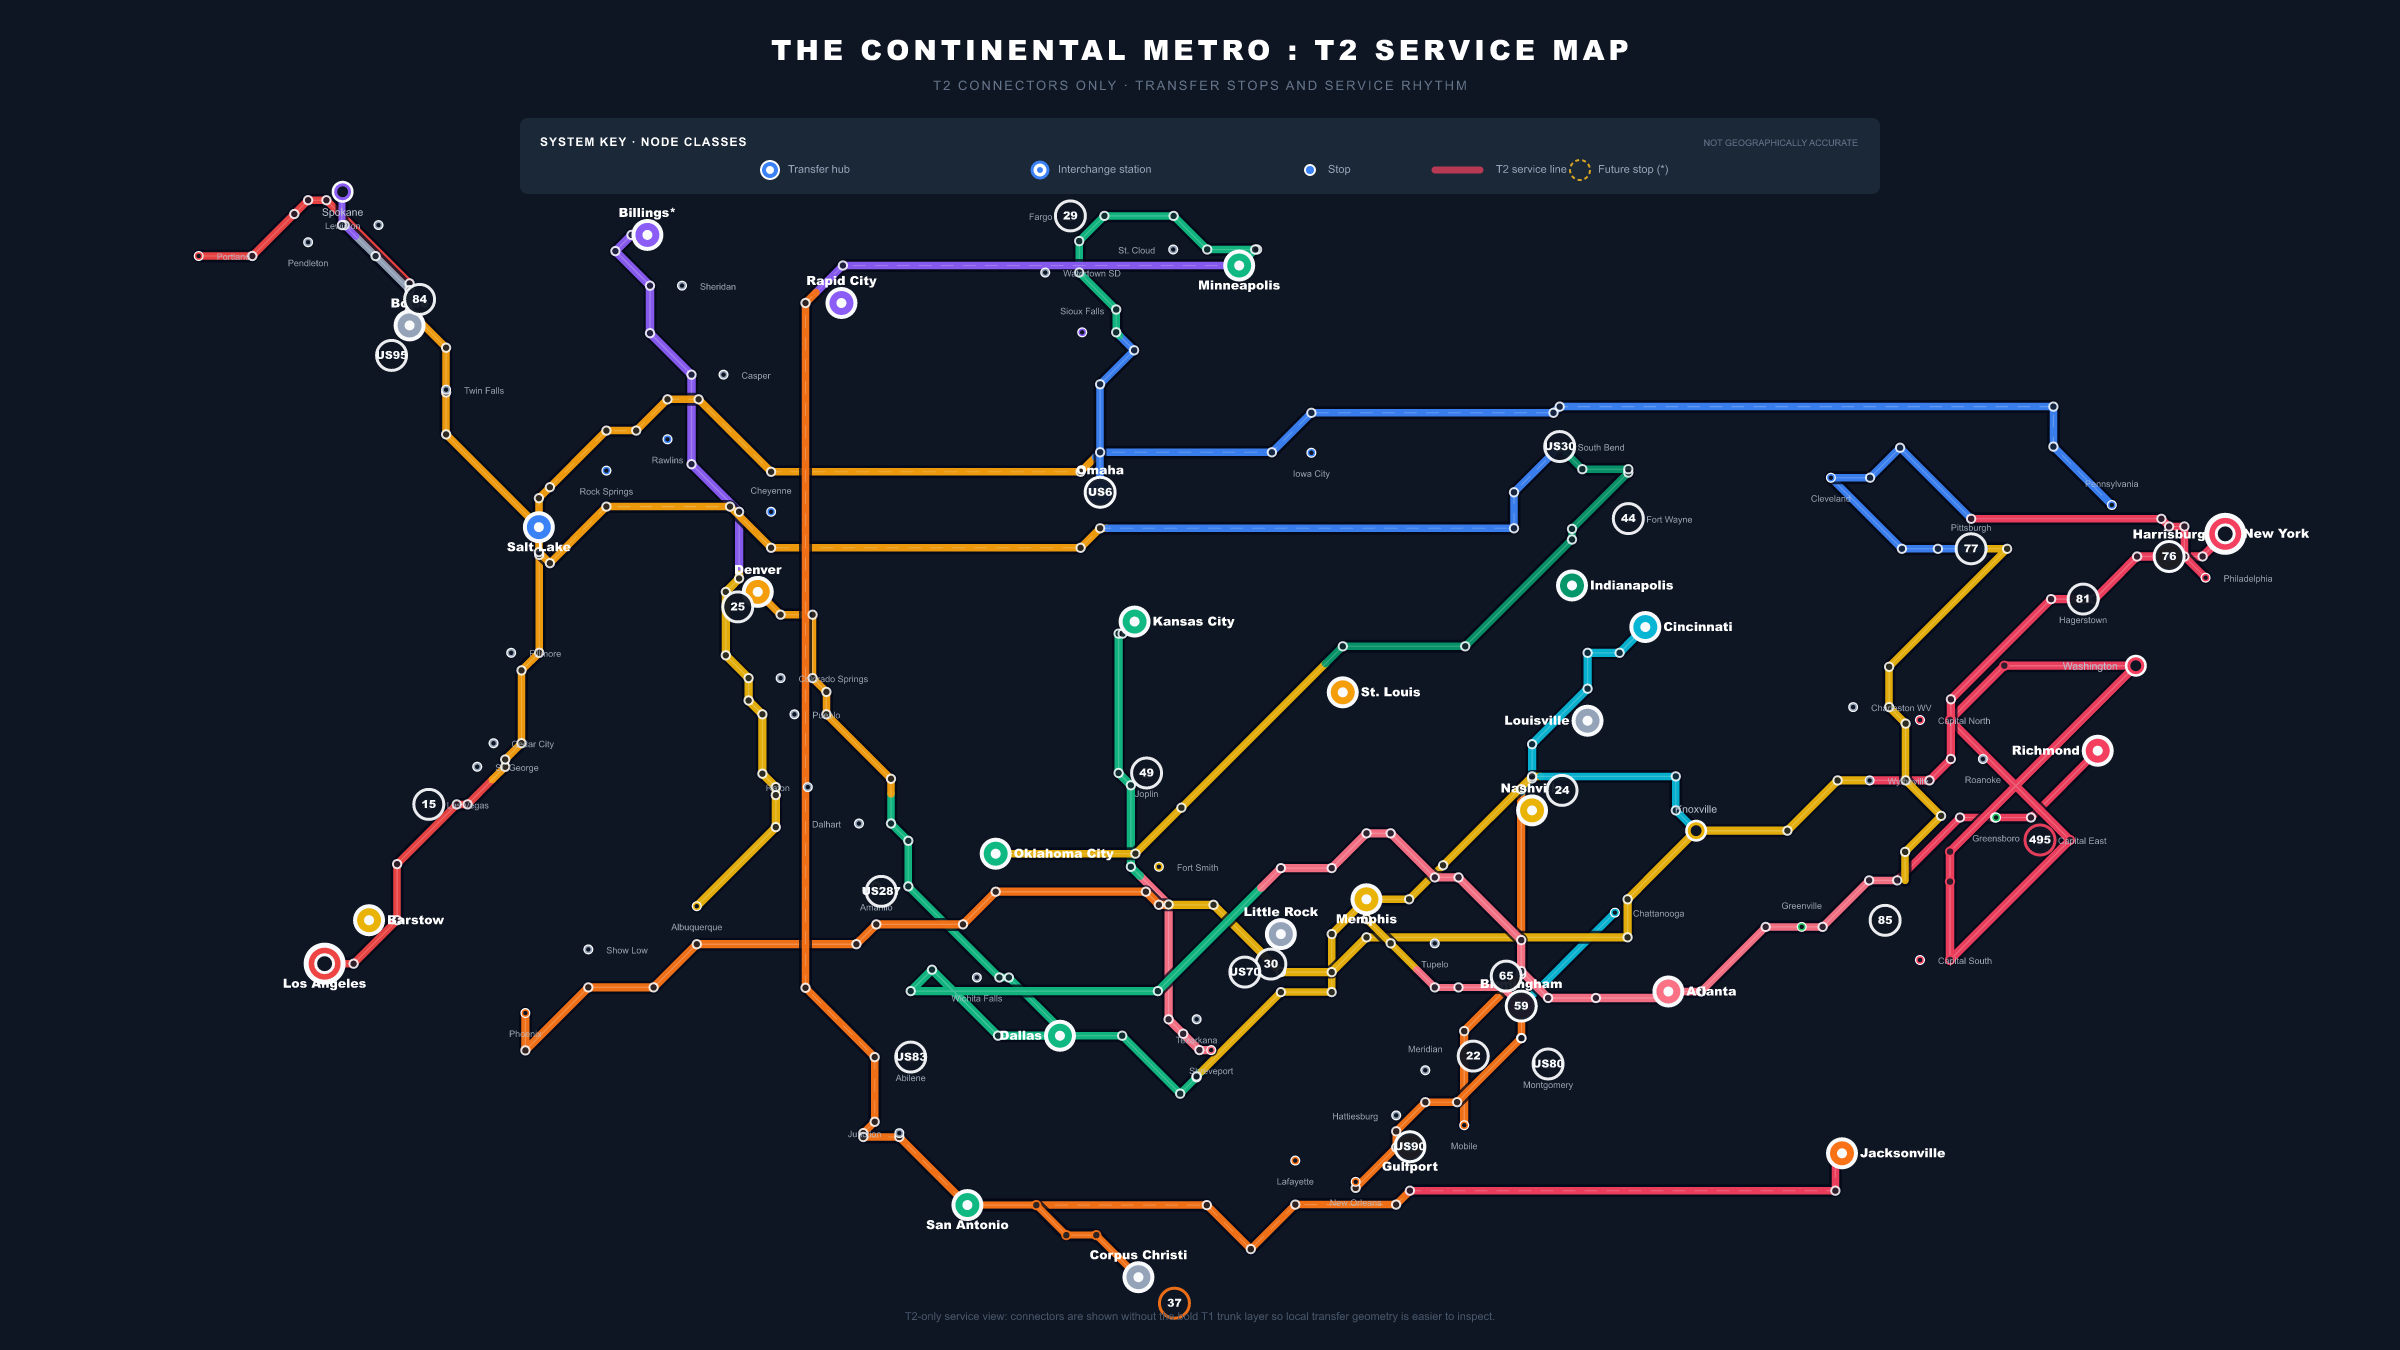
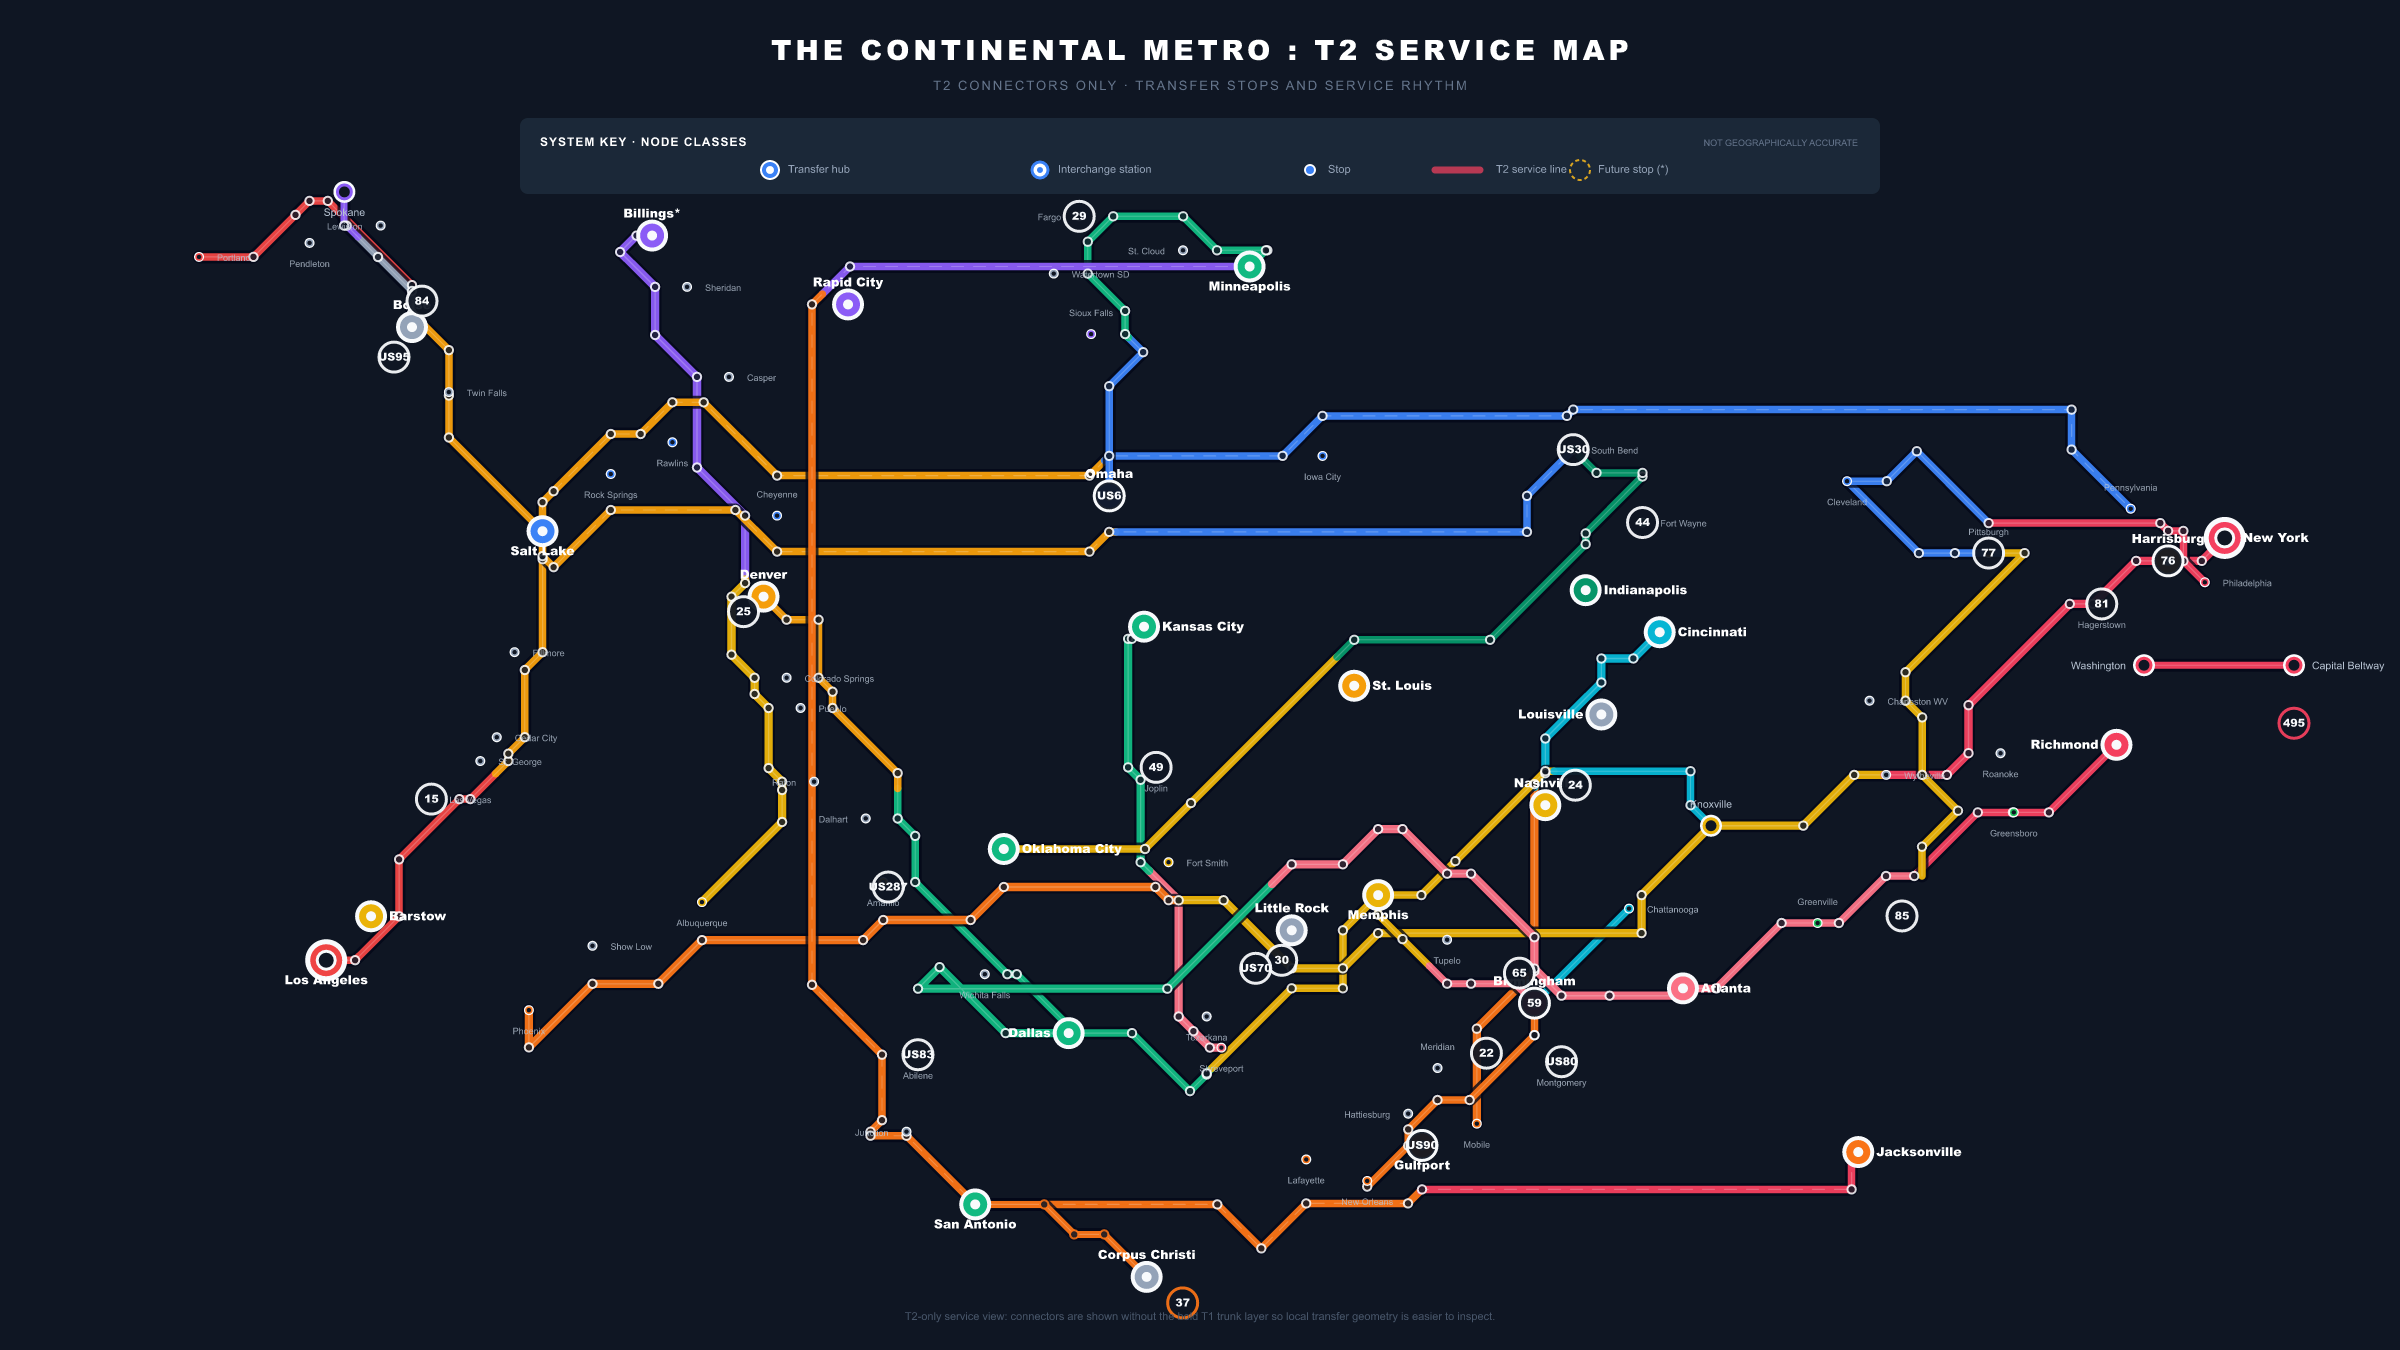
Simplify DC beltway Beck service

diff --git a/crates/route-map/src/beck.rs b/crates/route-map/src/beck.rs
@@ -1373,27 +1373,13 @@ fn beck_stops() -> Vec<BeckStop> {
             &["I-25"],
             LabelDir::Right,
         ),
-        minor_stop(
-            "CAPITAL_BELTWAY_N",
-            "Capital North",
-            1920.0,
-            780.0,
-            &["I-95", "I-495"],
-            LabelDir::Right,
-        ),
-        minor_stop(
+        stop(
             "CAPITAL_BELTWAY_E",
-            "Capital East",
+            "Capital Beltway",
             1980.0,
             840.0,
-            &["I-95", "I-495"],
-            LabelDir::Right,
-        ),
-        minor_stop(
-            "CAPITAL_BELTWAY_S",
-            "Capital South",
-            1890.0,
-            900.0,
+            false,
+            true,
             &["I-95", "I-495"],
             LabelDir::Right,
         ),
@@ -1542,19 +1528,16 @@ fn beck_stops() -> Vec<BeckStop> {
 }
 
 fn apply_schematic_adjustments(stops: &mut [BeckStop]) {
+    let dc = stops
+        .iter()
+        .find(|stop| stop.id == "DC")
+        .map(BeckStop::point)
+        .unwrap_or((1920.0, 840.0));
     for stop in stops {
         match stop.id {
-            "CAPITAL_BELTWAY_N" => {
-                stop.x = 1920.0;
-                stop.y = 720.0;
-            }
             "CAPITAL_BELTWAY_E" => {
-                stop.x = 2040.0;
-                stop.y = 840.0;
-            }
-            "CAPITAL_BELTWAY_S" => {
-                stop.x = 1920.0;
-                stop.y = 960.0;
+                stop.x = dc.0 + 150.0;
+                stop.y = dc.1;
             }
             "CORPUS" => {
                 stop.x += 130.0;
@@ -1868,7 +1851,7 @@ fn t2_lane_shift(corridor: &str) -> (f64, f64) {
         "I-77" => (36.0, 0.0),
         "I-81" => (-32.0, 0.0),
         "I-85" => (-36.0, 0.0),
-        "I-495" => (30.0, 0.0),
+        "I-495" => (0.0, 0.0),
         "US30" => (0.0, -40.0),
         "US6" => (0.0, 36.0),
         "US70" => (0.0, 38.0),
@@ -2218,17 +2201,11 @@ fn t2_line_segments(stops: &[BeckStop]) -> Vec<T2LineSegment> {
             "I-495",
             "I-95",
             "I-95",
-            &[
-                "DC",
-                "CAPITAL_BELTWAY_N",
-                "CAPITAL_BELTWAY_E",
-                "CAPITAL_BELTWAY_S",
-                "DC",
-            ],
+            &["DC", "CAPITAL_BELTWAY_E"],
             "Capital Beltway",
             "CAPITAL_BELTWAY_E",
-            (0.0, 0.0),
-            "start",
+            (0.0, 58.0),
+            "middle",
         ),
         t2_line_segment(
             stops,
@@ -4170,6 +4147,19 @@ mod tests {
     }
 
     #[test]
+    fn beck_t2_capital_beltway_draws_compact_dc_stub() {
+        let stops = beck_stops();
+        let routes = t2_line_segments(&stops);
+        let i495 = routes.iter().find(|line| line.corridor == "I-495").unwrap();
+
+        assert_eq!(i495.stop_ids, vec!["DC", "CAPITAL_BELTWAY_E"]);
+        assert_eq!(i495.lane_shift, (0.0, 0.0));
+        let dc = stop_by_id(&stops, "DC").point();
+        assert_eq!(i495.routed_waypoints(), vec![dc, (dc.0 + 150.0, dc.1)]);
+        assert_eq!(i495.badge, (dc.0 + 150.0, dc.1 + 58.0));
+    }
+
+    #[test]
     fn beck_t2_svg_draws_thin_connector_overlay_tinted_to_trunks() {
         let svg = build_beck_t2_svg();
         assert!(svg.contains("LOCAL SERVICES"));
@@ -4213,7 +4203,7 @@ mod tests {
     fn beck_t2_diagnostics_exports_review_flags() {
         let csv = build_beck_t2_diagnostics_csv();
         assert!(csv.starts_with("corridor,trunk,start_trunk,end_trunk,color_mode,service_class"));
-        assert!(csv.contains("I-495,I-95,I-95,I-95,single-parent,transfer-spine,"));
+        assert!(csv.contains("I-495,I-95,I-95,I-95,single-parent,compact-service,"));
         assert!(csv.contains("split-parent"));
         assert!(csv.contains("compact-service"));
         assert!(csv.contains("long-connector-review"));
@@ -4247,7 +4237,7 @@ mod tests {
 
         assert_eq!(
             corridors_for("compact-service"),
-            vec!["I-22", "I-37", "US95"]
+            vec!["I-22", "I-37", "I-495", "US95"]
         );
         assert_eq!(
             corridors_for("long-connector"),
@@ -4255,7 +4245,7 @@ mod tests {
         );
         assert_eq!(
             corridors_for("transfer-spine"),
-            vec!["I-25", "I-49", "I-495", "I-65", "I-81", "US70", "US80"]
+            vec!["I-25", "I-49", "I-65", "I-81", "US70", "US80"]
         );
         assert_eq!(corridors_for("connector").len(), 11);
     }
